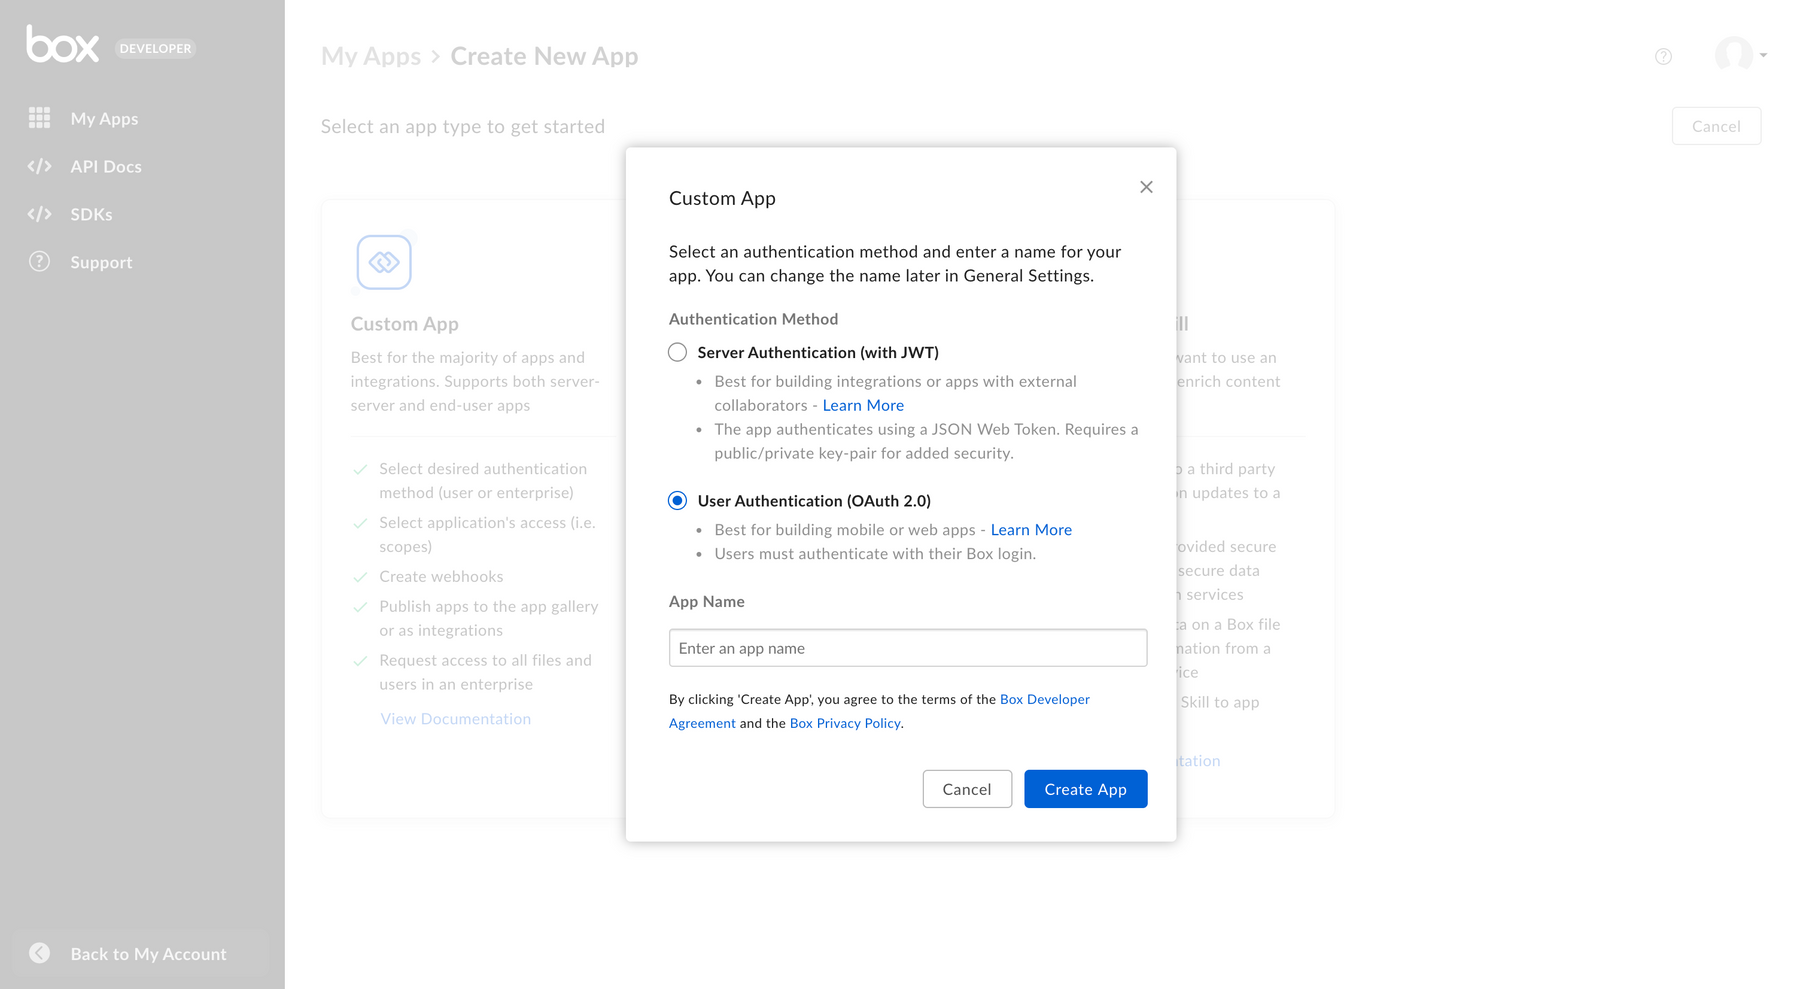
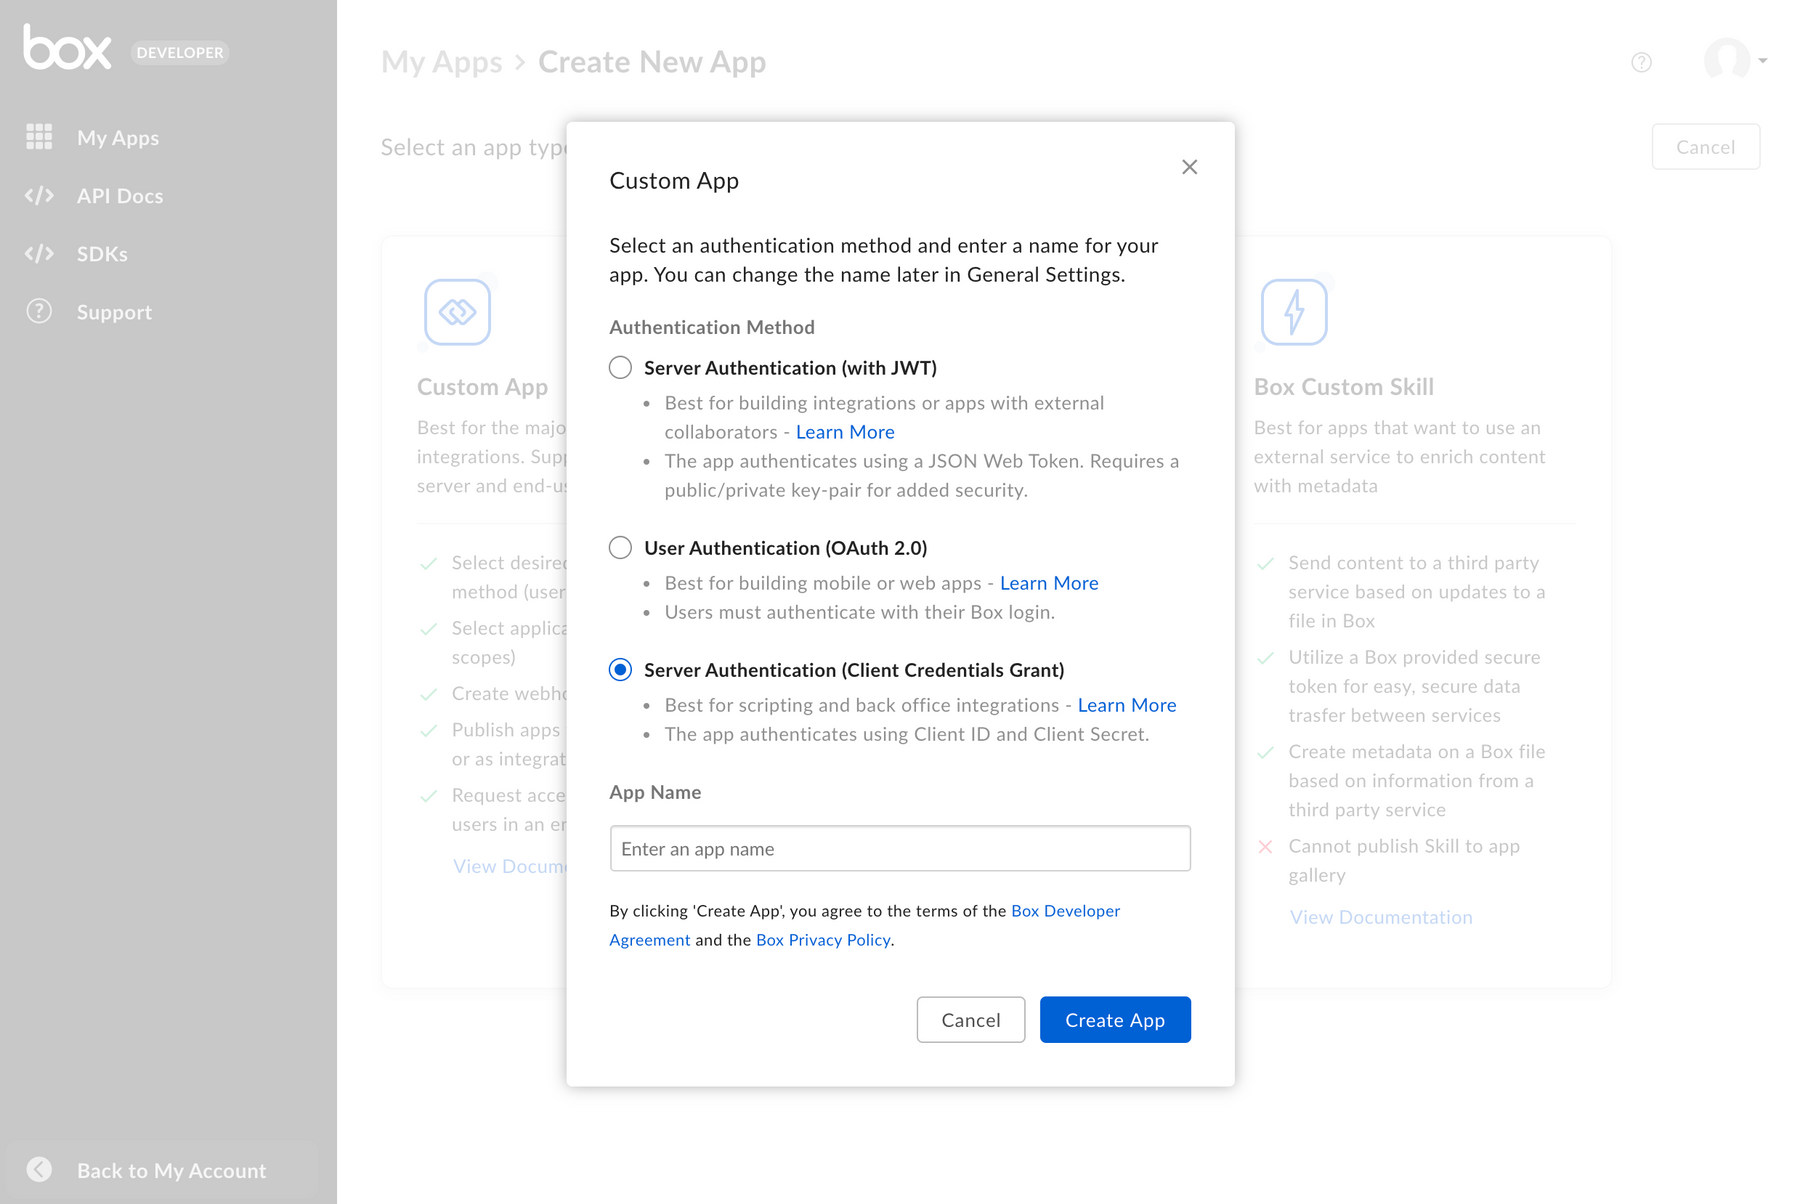
Update en-staging to output generated at 5dafd37

diff --git a/guides/authentication/jwt/without-sdk.md b/guides/authentication/jwt/without-sdk.md
@@ -31,22 +31,22 @@ This guide takes you through JWT authentication without using a Box SDK.
 JWT does not require end-user interaction and is designed to authenticate
 directly with the Box API.
 
-To verify an application's identity, you can either use a:
+There are two ways you can verify an application's permissions:
 
-1. public/private keypair
-1. client ID and client secret
+- using a public and private key pair
+- using a client id and client secret (Client Credentials Grant)
 
-Using your client ID and client secret is the easiest and fastest verification
+Using a Client Credentials Grant is the easiest and fastest verification
 method for prototyping or scripting against your Box enterprise. Regardless of
 the verification method you select from above, the end result is an Access Token
-that can be used to make API calls on behalf of the application. 
+which can be used to make API calls on behalf of the application. 
 
 To learn how to use this token visit our guide on [Making API
 calls](g://api-calls).
 
 <Message notice>
 
-By default, the access token acquired with JWT is tied to the Service
+By default, the Access Token acquired with JWT is tied to the Service
 Account for the application. Any API call made with this token will come
 from the application. This account does not have access to any existing files
 or folders until the application's Service Account is added as a collaborator.
@@ -57,17 +57,17 @@ using the `as-user` header or by requesting a
 
 </Message>
 
-## Verification using a keypair
+## Using a key pair
 
 Follow the steps below if you would like to verify your application's identity
-using a public/private keypair.
+using a public and private key pair.
 
 ### Prerequisites
 
-1. A Custom Application using JWT authentication within the Box
+- A Custom Application using JWT authentication within the Box
  [Developer Console][devconsole]
-1. A private key [configuration file][configfile] named `config.json`
-1. Ensure your application is authorized within the Box Admin Console
+- A private key [configuration file][configfile] named `config.json`
+- Ensure your application is authorized within the Box Admin Console
 
 ### 1. Read JSON configuration
 
@@ -847,18 +847,18 @@ $access_token = json_decode($data)->access_token;
 
 </Tabs>
 
-## Verification using a client ID and client secret
+## Client credentials grant
 
 Follow the steps below if you would like to verify your application's identity
 using a client ID and client secret.
 
 ### Prerequisites
 
-1. A Custom Application using Client Credentials Grant authentication
+- A Custom Application using Client Credentials Grant authentication
  within the Box [Developer Console][devconsole]
-1. 2FA enabled on your Box account in order to view/copy your client secret from
+- 2FA enabled on your Box account in order to view/copy your client secret from
 the configuration tab
-1. Ensure your application is authorized within the Box Admin Console
+- Ensure your application is authorized within the Box Admin Console
 
 <Message notice>
 
@@ -875,10 +875,14 @@ request body needs to contain your client ID and client Secret. Set the
 `grant_type` to `client_credentials`.
 
 If you would like to authenticate as the application's [Service Account][sa]:
-set`box_subject_type` to `enterprise` and `box_subject_id` to the enterprise ID
+
+- set `box_subject_type` to `enterprise`
+- set `box_subject_id` to the enterprise ID
 
 If you would like to authenticate as a Managed User:
-set `box_subject_type` to `user` and `box_subject_id` to the user ID
+
+- set `box_subject_type` to `user` 
+- set `box_subject_id` to the user ID
 
 <Tabs>
 
@@ -904,7 +908,7 @@ curl --location --request POST ‘https://api.box.com/oauth2/token’ \
 
 ## Code Samples
 
-All of the code in this guide is available on [GitHub][samples].
+The code in this guide is available on [GitHub][samples].
 
 [samples]: https://github.com/box-community/samples-docs-authenticate-with-jwt-api
 [2fa]: https://support.box.com/hc/en-us/articles/360043697154-Two-Factor-Authentication-Set-Up-for-Your-Account

diff --git a/guides/applications/custom-apps/jwt-setup.md b/guides/applications/custom-apps/jwt-setup.md
@@ -62,8 +62,14 @@ prompt a selection for the next step.
 
 ### 3. Select the type of authentication and app name
 
-Select **Server Authentication (with JWT)** and provide a unique name for your
-application. Click **Create App**.
+Select **Server Authentication (with JWT)** if you would like to verify
+application identity via a key pair. Select
+**Server Authentication (Client Credentials Grant)** if you would like to verify
+application identity via a client id and client secret. Then, provide a name
+for your application and click **Create App**.
+
+Once you make a selection, you will not be able to change to a different 
+authentication method without creating a new application.
 
 <ImageFrame border width="600" center>
 
@@ -71,12 +77,13 @@ application. Click **Create App**.
 
 </ImageFrame>
 
-## JWT keypair
+## Public and private key pair
 
-JWT authentication works through a public/private RSA keypair.
-Once a Custom App is created leveraging JWT authentication, a keypair can
-be generated via the [Developer Console][devconsole] or you can generate your
-own and supply Box with the public key.
+Once a Custom App is created leveraging Server Authentication with JWT, a key
+pair can be generated via the configuration tab within the
+[Developer Console][devconsole]. Alternatively, you can generate your
+own and supply Box with the public key. Regardless of the method you select,
+your Box account will need to have [2FA][2fa] enabled for security purposes.
 
 ### Generate a keypair (Recommended)
 
@@ -108,8 +115,8 @@ private key, you will need to reset the entire keypair.
 
 ### Manually add keypair
 
-Alternatively, you may generate your own keypair and then upload the public key
-to the [Developer Console][devconsole].
+Alternatively, you may generate your own keypair and upload the public key to
+the [Developer Console][devconsole].
 
 To create a keypair using OpenSSL, open a terminal window and run the
 following commands.
@@ -127,7 +134,7 @@ Windows users can install and use the [Cygwin][cygwin] package to run OpenSSL.
 
 </Message>
 
-Then, navigate to the configuration tab for your application in the
+Then, navigate to the configuration tab for your application within the
 [Developer console][devconsole] and scroll down to the
 **Add and Manage Public Keys** section.
 
@@ -142,11 +149,11 @@ steps above and click **Verify and Save**.
 
 ## App Authorization
 
-Once a keypair is successfully added to your application your Box enterprise
-Admin needs to authorize the application within the Box Admin Console.
+Before the application can be used, a Box Admin needs to authorize the
+application within the Box Admin Console.
 
 Navigate to the **General Settings** tab for your application within the
-[developer console][devconsole] and scroll down to the **App Authorization**
+[Developer Console][devconsole] and scroll down to the **App Authorization**
 section.
 
 <ImageFrame border width="400" center>
@@ -161,14 +168,12 @@ approval. More information on this process is available in our
 
 ### Re-authorization after making configuration changes
 
-When the application's scopes or access level change the application needs to be
-re-authorized. Repeat the process above and request a new Access Token for the
-new changes to take effect.
+As a general rule of thumb, applications require re-authorization, in the Box
+Admin console, after making any configuration changes within the Developer
+Console. If this step is skipped, any generated Access Tokens will not reflect
+the configuration changes.
 
 ## Basic configuration
-
-Before the application can be used, some additional configuration is
-required.
 
 ### Application Access
 
@@ -222,3 +227,4 @@ section at the bottom of the **Configuration** tab in the
 [cygwin]: http://www.cygwin.com/
 [app-auth]: https://community.box.com/t5/Managing-Developer-Sandboxes/Authorizing-Apps-in-the-Box-App-Approval-Process/ta-p/77293
 [jwt]: g://authentication/jwt
+[2fa]: https://support.box.com/hc/en-us/articles/360043697154-Two-Factor-Authentication-Set-Up-for-Your-Account

diff --git a/guides/authentication/access-tokens/index.md b/guides/authentication/access-tokens/index.md
@@ -37,14 +37,16 @@ Token.
 
 <!-- markdownlint-disable line-length -->
 
-| Box Application Type               | How to get Access Token                          |
-| ---------------------------------- | ------------------------------------------------ |
-| Custom App + OAuth 2.0             | [Explicit user grant][oauth2-with-sdk]           |
-| Custom App + JWT                   | [Exchange a JWT assertion][jwt-with-sdk]         |
-| Limited Access App + App Token     | Configure token in [Developer Console][devcon]           |
-| Custom Skill                       | Access Token in event payload                    |
+| Box Application Type                  | How to get Access Token                          |
+| ------------------------------------- | ------------------------------------------------ |
+| Custom App + OAuth 2.0                | [Explicit user grant][oauth2-with-sdk]           |
+| Custom App + JWT                      | [Exchange a JWT assertion][jwt-with-sdk]         |
+| Custom App + Client Credentials Grant | [Use client ID and client secret][clientcred]    |
+| Limited Access App + App Token        | Configure token in [Developer Console][devcon]   |
+| Custom Skill                          | Access Token in event payload                    |
 <!-- markdownlint-enable line-length -->
 
 [jwt-with-sdk]: g://authentication/jwt/with-sdk
 [oauth2-with-sdk]: g://authentication/oauth2/with-sdk
 [devcon]: https://app.box.com/developers/console
+[clientcred]: g://authentication/jwt/without-sdk/#client-credentials-grant

diff --git a/guides/authentication/jwt/index.md b/guides/authentication/jwt/index.md
@@ -40,18 +40,19 @@ Server-side authentication using JWT is only available to the Custom Application
 interaction and, if granted the proper privileges, can be used
 to act on behalf of any user in an enterprise.
 
-To verify an application's permissions, you can either use a:
+There are two ways you can verify an application's permissions:
 
-1. public/private keypair
-1. client id and client secret
+- using a public and private key pair
+- using a client id and client secret (Client Credentials Grant)
 
+At this time, our SDKs do not support the Client Credential Grant.
 To learn more about these options visit our guide on using
 [JWT without SDKs][jwtnosdk].
 
 Upon authorizing a JWT application in the Box Admin Console, a 
-[Service Account][user-types]is automatically generated and is the default token
-used when authenticating. This is an admin-like user and why applications
-leveraging JWT require explicit Box Admin approval before use.
+[Service Account][user-types] is automatically generated and is the default
+Access Token used when authenticating. This is an admin-like user and why
+applications leveraging JWT require explicit Box Admin approval before use.
 
 ## When to use JWT
 

diff --git a/guides/authentication/select.md b/guides/authentication/select.md
@@ -77,10 +77,14 @@ Learn about client-side authentication with OAuth 2.0
 
 ### Server-side JWT
 
-Server-side authentication using JSON Web Tokens (JWT) does not involve a
-user in the authorization flow and therefore can be used to act on behalf of any
-user in an enterprise. JWT uses a public/private key pair verify the
-application's permissions.
+This authentication method does not require end-user
+interaction and, if granted the proper privileges, can be used
+to act on behalf of any user in an enterprise.
+
+Server-side authentication using JSON Web Tokens (JWT) does not require end-user
+interaction and, if granted the proper privileges, can be used to act on behalf
+of any user in an enterprise. You can use a public and private key pair or your
+client ID and client secret to verify the application's permissions.
 
 <ImageFrame center shadow border>
 
